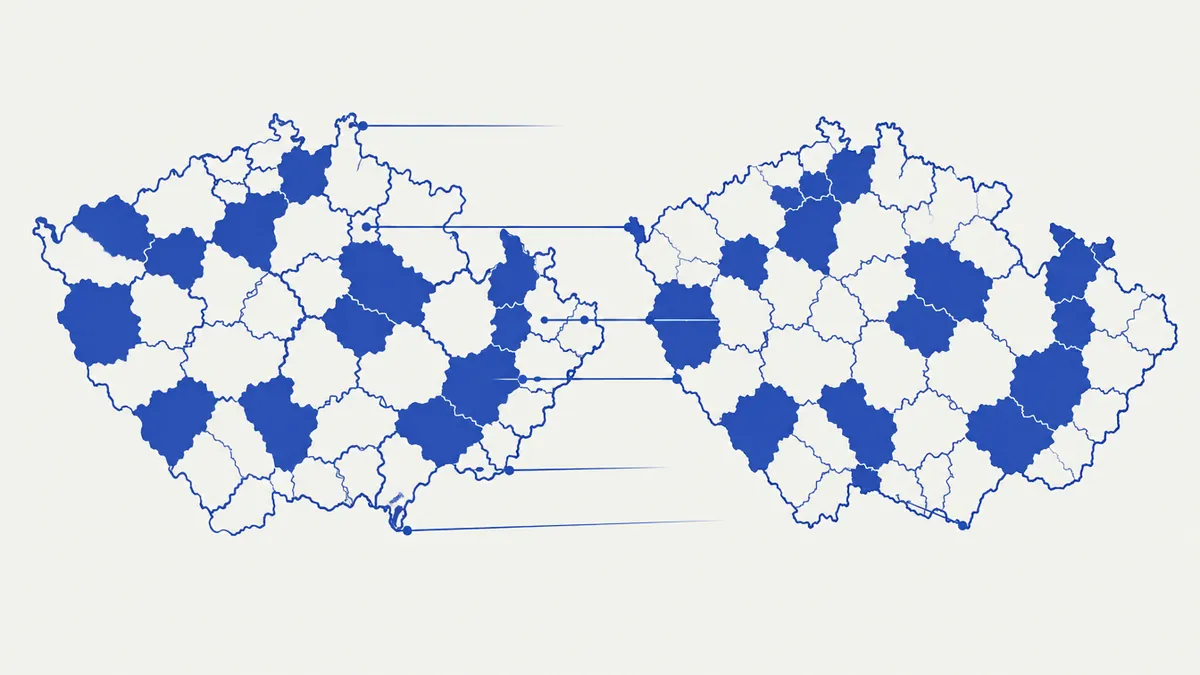
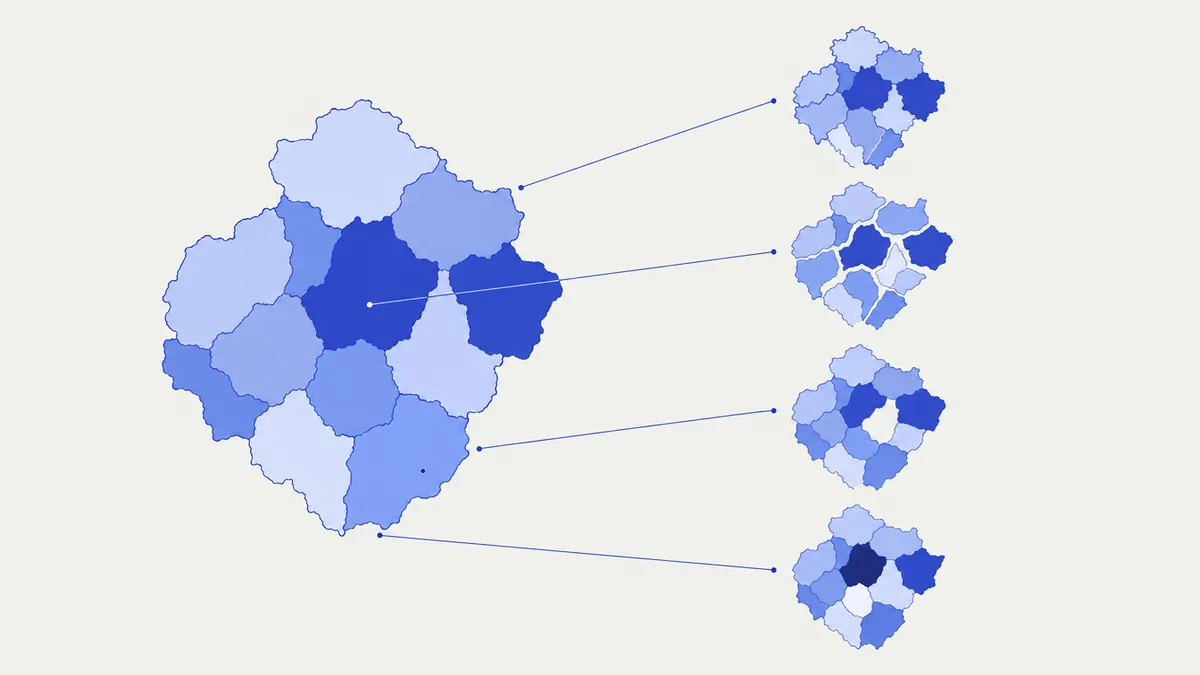
Redraw three project images, shorten the CEDA highlights, serve /novy-web
The illustrations for AI Map Generation Evaluation, Vehicle Detection
Roundabout and Znecisteni ovzdusi v MSK were regrades of the earlier
terracotta set, and the regrade broke them: the roundabout came out with the
values inverted, so the asphalt went dark and the detection boxes vanished,
and both maps lost their subject, two identically wrong outlines in one case
and a shapeless stretched blob in the other. All three are generated fresh
instead: a reference map beside four flawed variants, a light aerial with
visible detection boxes and a counting gate, and a municipality choropleth
with the sources marked in the industrial basin.

The CEDA Maps entry goes from nine highlights to five. The pipeline, the
triangulation validated against the lidar cloud, the road defect clustering,
dataset engineering with the rig calibration and the stack line stay; the
depth estimation detail already appears in the hero intro, and the remote
work line said nothing a reader needs.

vercel.json rewrites /novy-web to the same app, so the site answers on that
path as well. The canonical URL stays on the root, so only one address
competes in search.

diff --git a/src/data/content.en.ts b/src/data/content.en.ts
@@ -320,14 +320,10 @@ export const experience: Experience[] = [
     period: "June 2026 – Present",
     location: "Brno, remote",
     highlights: [
-      "GeoAI pipeline that turns mobile mapping data (360° imagery, GNSS, LiDAR) into a map-ready inventory of traffic signs and road defects; from data annotation through YOLOv8 training to production deployment",
-      "Geolocation pipeline that turns 2D sign detections and the GNSS trajectory into positioned map assets; I validate the output against lidar point clouds as an independent reference",
-      "Locating signs without precise GNSS: multi-view triangulation across dozens of drive-throughs, least-squares refinement and fusion into a single entity; monocular depth estimation (Depth Anything V2, MoGe-2) as an independent source, validated with a null test",
+      "GeoAI pipeline that turns mobile mapping data (360° imagery, GNSS, LiDAR) into a map-ready inventory of traffic signs and road defects: from annotation through YOLOv8 training to production deployment",
+      "Locating signs without precise GNSS: multi-view triangulation across dozens of passes, least-squares refinement and fusion into a single entity, validated against detections made directly in the lidar point cloud",
       "Clustering that merges repeated road defect detections from multiple fleet passes into a single road event; groundwork for the cloud processing pipeline",
-      "Panoramic camera rig calibration via COLMAP SfM — extrinsics and intrinsics for lifting detections into real-world space",
-      "Dataset engineering: per-track split against data leakage, deduplication of sequential frames and class-imbalance control over tens of thousands of crops",
-      "Detecting sign panels directly in the LiDAR point cloud (RIEGL, laspy, PDAL) and cross-checking them against the image detections",
-      "I work remotely and independently, from data exploration to decisions with the R&D lead",
+      "Dataset engineering and calibration: per-track split against data leakage, deduplication of sequential frames, panoramic rig calibration via COLMAP SfM",
       "Stack: Python, PyTorch, Ultralytics YOLOv8/OBB, SAHI, OpenCV, Open3D, PDAL, COLMAP, PostGIS, GeoPandas",
     ],
   },

diff --git a/src/data/content.ts b/src/data/content.ts
@@ -174,14 +174,10 @@ export const experience: Experience[] = [
     period: "červen 2026 – současnost",
     location: "Brno, remote",
     highlights: [
-      "GeoAI pipeline, která z dat mobilního mapování (360° snímky, GNSS, LiDAR) dělá mapový inventář dopravních značek a poruch vozovky; od anotace dat přes trénink YOLOv8 po produkční nasazení",
-      "Geolokační pipeline, která z 2D detekcí značek a GNSS trajektorie dělá polohované mapové objekty; výstup ověřuji proti lidarovým mračnům jako nezávislé referenci",
-      "Lokalizace značek bez přesného GNSS: multi-view triangulace z desítek průjezdů, least-squares refinement a fúze do jedné entity; monokulární odhad hloubky (Depth Anything V2, MoGe-2) jako nezávislý zdroj, validovaný nulovým testem",
+      "GeoAI pipeline, která z dat mobilního mapování (360° snímky, GNSS, LiDAR) dělá mapový inventář dopravních značek a poruch vozovky: od anotace přes trénink YOLOv8 po produkční nasazení",
+      "Geolokace značek bez přesného GNSS: multi-view triangulace z desítek průjezdů, least-squares refinement a fúze do jedné entity, ověřená proti detekcím přímo v lidarovém mračnu",
       "Klastrování, které opakované detekce poruch vozovky z více průjezdů flotily slučuje do jedné události na silnici; základ pro zpracování v cloudu",
-      "Kalibrace panoramatického kamerového rigu přes COLMAP SfM — extrinsics a intrinsics pro převod detekcí do reálného prostoru",
-      "Dataset engineering: per-track split proti data leakage, deduplikace sekvenčních snímků a řízení class imbalance nad desítkami tisíc cropů",
-      "Detekce panelů přímo v LiDAR mračnu (RIEGL, laspy, PDAL) a křížové ověření proti obrazovým detekcím",
-      "Pracuji na dálku a samostatně, od průzkumu dat po rozhodnutí s vedoucím R&D",
+      "Dataset engineering a kalibrace: per-track split proti data leakage, deduplikace sekvenčních snímků, kalibrace panoramatického rigu přes COLMAP SfM",
       "Stack: Python, PyTorch, Ultralytics YOLOv8/OBB, SAHI, OpenCV, Open3D, PDAL, COLMAP, PostGIS, GeoPandas",
     ],
   },
